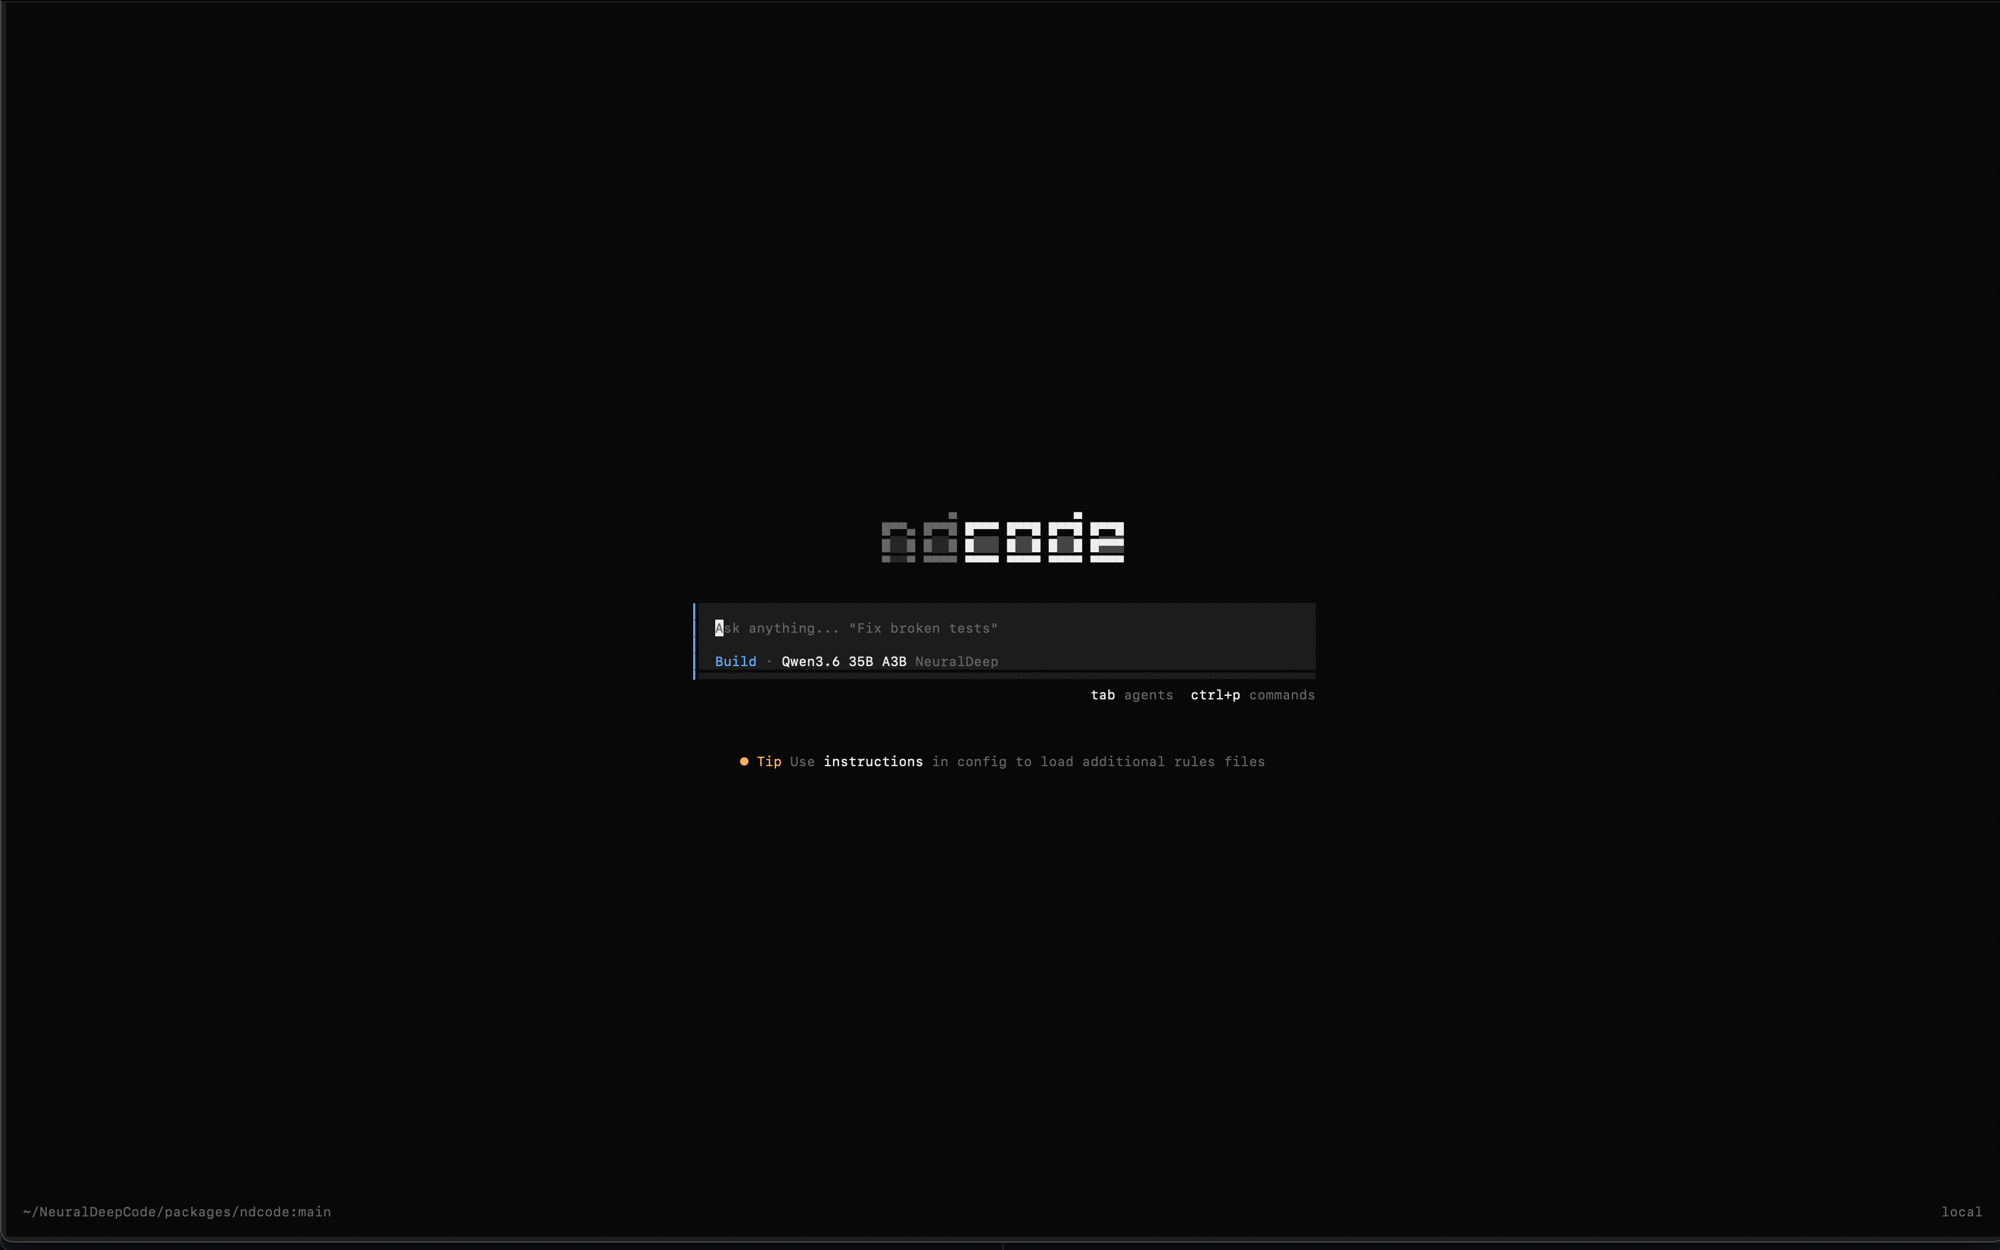
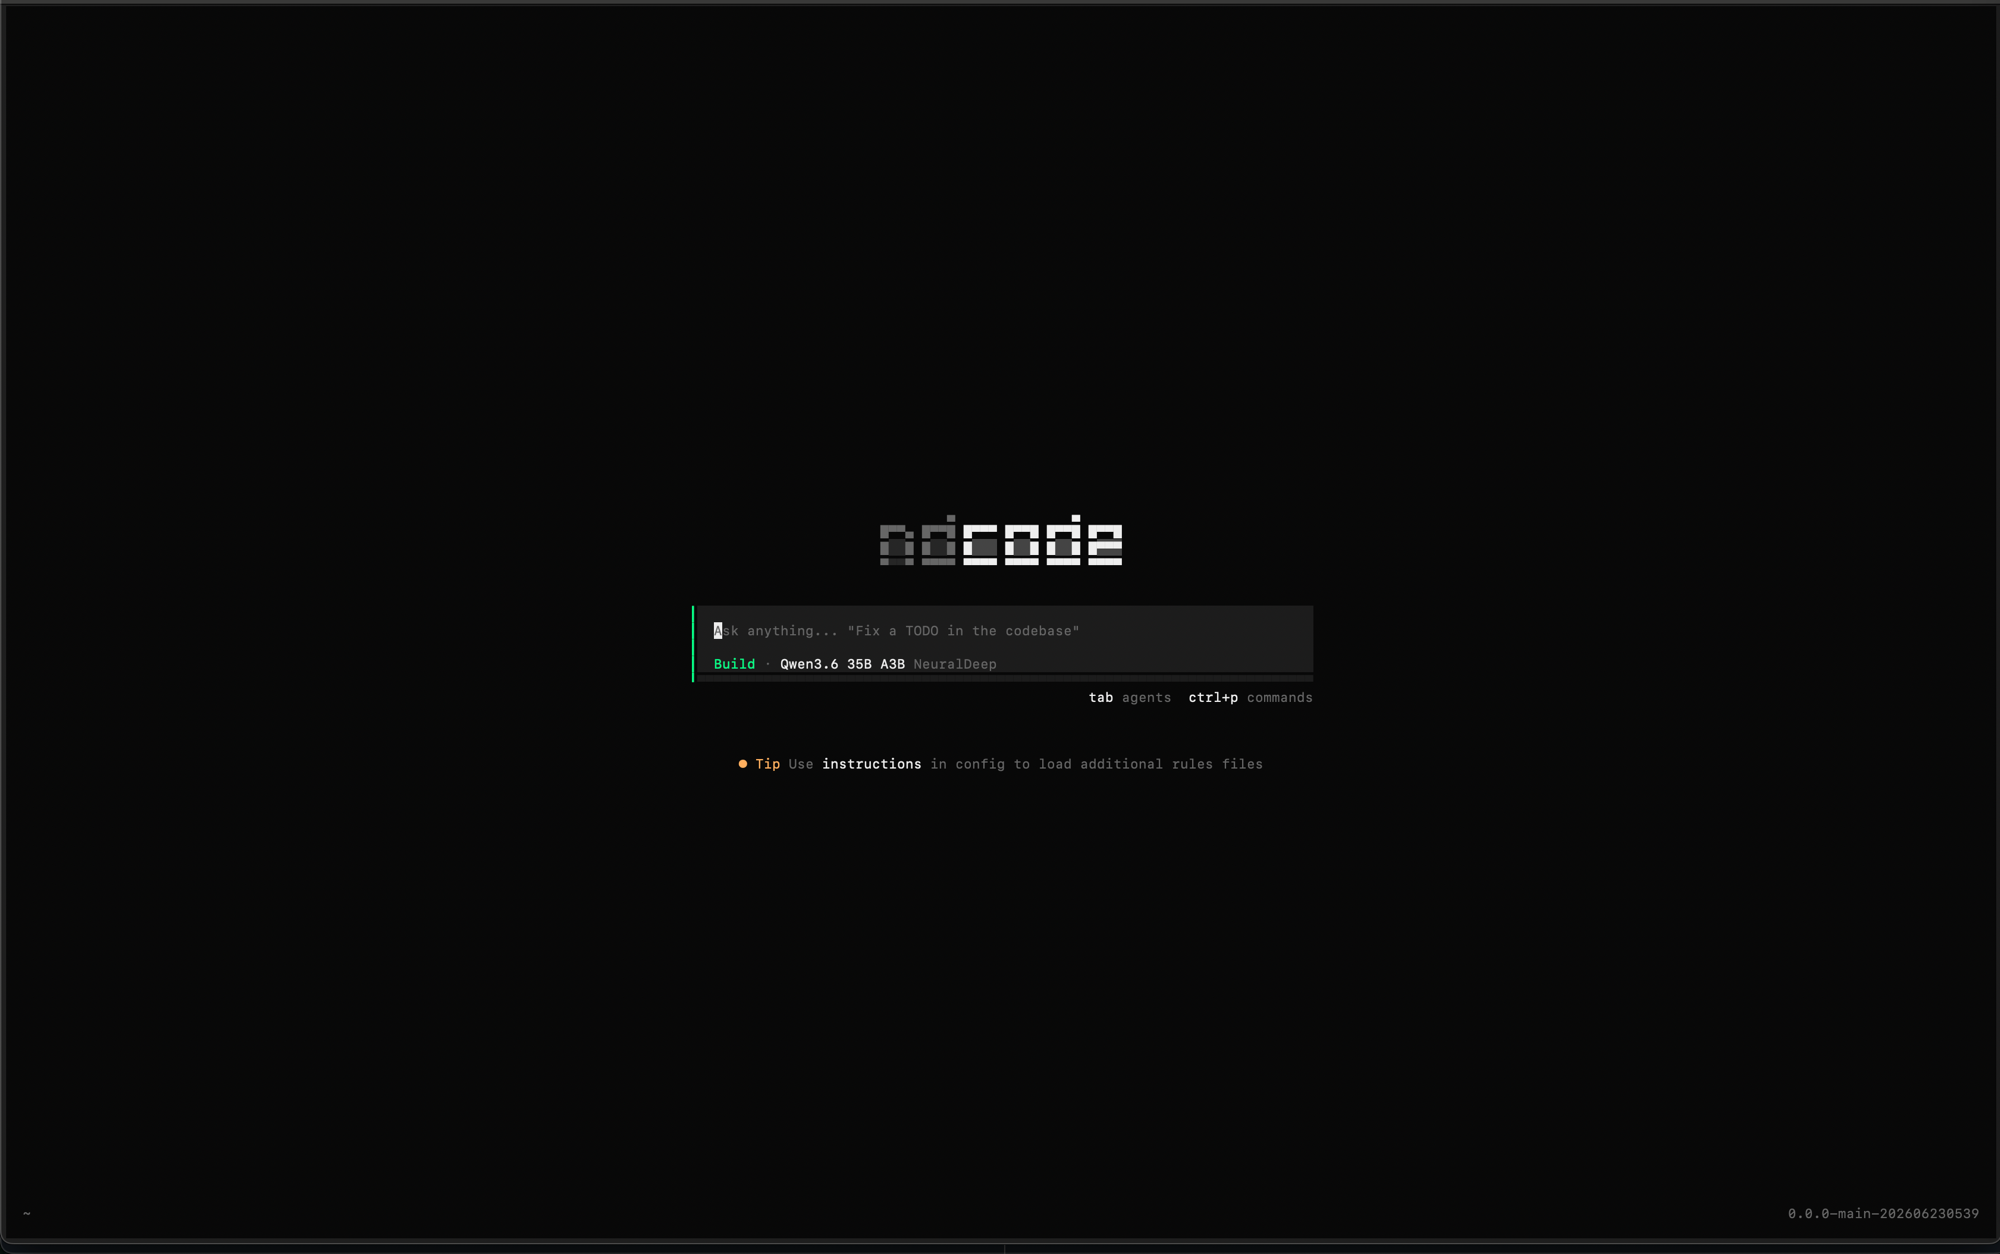
docs(readme): the idea (adapt opencode for Qwen), green home screenshot; scrub opencode refs from prompt .txt files
The earlier opencode sweep covered .ts/.json/.md but not the model system prompt
.txt files, which still pointed the model at anomalyco/ndcode issues and opencode.ai
docs (that text goes into the model's context). Scrubbed those too.

diff --git a/README.md b/README.md
@@ -11,6 +11,17 @@ accounts, no provider juggling.
   <img src="docs/assets/ndcode-home.png" alt="ndcode" width="860">
 </p>
 
+## The idea
+
+Most terminal coding agents are tuned for Claude / GPT. `ndcode` takes a mature
+open-source agent loop ([opencode](https://github.com/sst/opencode), MIT) and
+**adapts it for working with Qwen models** served by the NeuralDeep hub —
+Qwen3-Coder / Qwen3 (`qwen3.6-35b-a3b`) and `gpt-oss-120b`. The goal is a coding
+agent that feels native to *these* models: model-specific system prompts and
+tool-calling tuned for Qwen, the hub as the default (and only) provider, browser
+SSO login, and budget/limits visible in the TUI — instead of a generic client
+pointed at someone else's cloud.
+
 ## Hub integration
 
 | command | what it does |